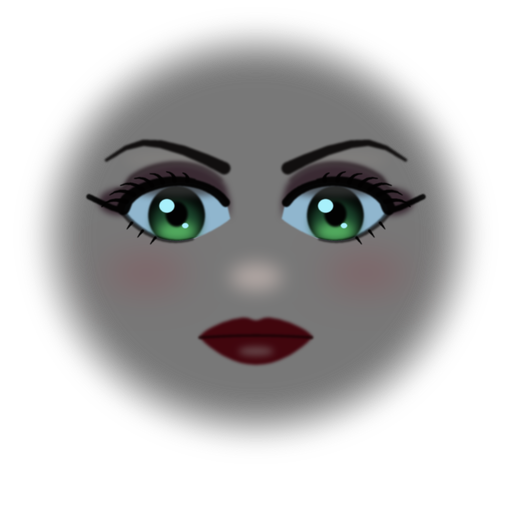
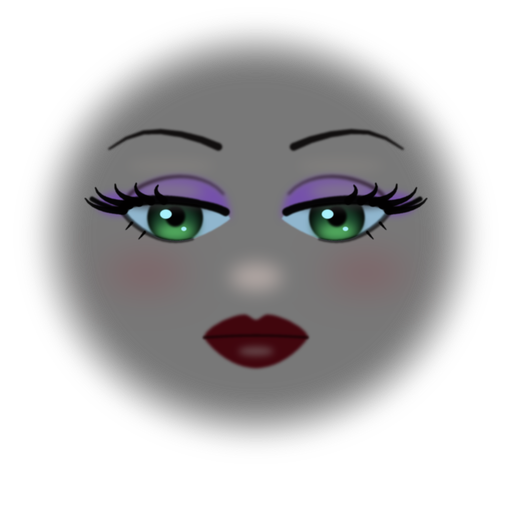
feat(siren): the 1940s pin-up face — heavy half-closed lids, long lashes, high brows, a pout
Owner: "more resemble Jessica Rabbit ... the eyelids are really big and long
lashes, eyes are not so wide open though eyes are big". The archetype, not
the character: the lid edge drops to 40% of the eye's height (LID_OPEN), a big
lavender-pink lid with a crease above it, five long lashes swept out from the
outer half, thin high arched brows, a fuller pouty cupid's bow.

diff --git a/src/lab/sdf-zombie/character-registry.ts b/src/lab/sdf-zombie/character-registry.ts
@@ -489,7 +489,7 @@ export const CHARACTERS: Readonly<Record<string, CharacterEntry>> = {
     // mean MEASURED off the PNG (make-siren-face.py prints it): the game uses
     // it as is, and bakedFace's fallback of 1 would darken her face by half
     // (the sheet's base grey is dark on purpose: make-siren-face.py).
-    face: { ...bakedFace('siren-face.png'), mean: 0.433815 },
+    face: { ...bakedFace('siren-face.png'), mean: 0.441372 },
     profile: motionProfileFor('siren'),
   },
 

diff --git a/scripts/make-siren-face.py b/scripts/make-siren-face.py
@@ -96,8 +96,9 @@ PUPIL = (0.02, 0.02, 0.02)
 CATCH = (1.40, 2.00, 2.10)     # the catchlight: clamps to near-white
 INK = (0.02, 0.015, 0.015)     # liner and lashes
 BROW = (0.07, 0.05, 0.05)      # cool near-black brown
-CREASE = (0.34, 0.24, 0.28)    # lid crease: a firm dark fold line
-LID = (0.44, 0.30, 0.38)       # smoky plum on the lid (owner: a bigger, darker lid)
+CREASE = (0.40, 0.26, 0.40)    # the lid's crease: a firm plum line round the top of the big lid
+LID = (0.98, 0.66, 1.45)       # lavender-pink shadow over the whole heavy lid (the 1940s pin-up's)
+LID_ROUND = (1.10, 1.08, 1.08) # a soft highlight across the lid's middle: the lid reads convex, a fold over the eye
 BROW_BONE = (1.10, 1.08, 1.06)  # a lift under the brow, so the lid reads set back
 BLUSH = (1.08, 0.78, 0.82)     # rose flush
 LIP = (0.52, 0.00, 0.07)       # red lipstick (owner, 2026-10-23): crimson; warmer values rendered salmon on her skin
@@ -110,16 +111,22 @@ LIP_LINE = (0.22, 0.02, 0.04)  # the line where the lips meet
 EYE_IN, EYE_OUT = 9.0, 46.0
 EYE_Y = -29.0          # eye centre line at the inner corner, rel cranium centre
 EYE_LIFT = 3.0         # outer corner this much higher
-EYE_HALF_H = 14.5      # upper lid height above the centre line (13: "too tight")
+EYE_HALF_H = 14.5      # the eye's full height above the centre line: the top of the big lid
+# HEAVY LIDS (owner, 2026-10-24: "the eyelids are really big and long lashes,
+# eyes are not so wide open though eyes are big"; the 1940s cartoon pin-up):
+# the upper lid's EDGE drops to this share of EYE_HALF_H, so the lid covers
+# the top ~40% of the iris and the eye looks half-closed, knowing. Everything
+# between the lid edge and the eye's full top is LID, painted lavender-pink.
+LID_OPEN = 0.40
 EYE_LOW = 0.78         # the lower lid's depth, as a share of EYE_HALF_H
-IRIS_X, IRIS_Y, IRIS_RX, IRIS_RY = 27.5, -27.5, 9.8, 13.0
-PUPIL_RX, PUPIL_RY = 3.8, 5.6
+IRIS_X, IRIS_Y, IRIS_RX, IRIS_RY = 28.0, -28.5, 9.6, 11.5
+PUPIL_RX, PUPIL_RY = 3.4, 4.6
 # The mouth line and lip peaks are siren.blob's lip prims, PROBED (where
 # each prim lies closest under the skin): upper peak -78, lower -89.5, the
 # line between at -81.5 mm (the owner's "closer to the eyes" pass moved the
 # mouth up 4.8 mm). An earlier sheet put the line 2.3 mm under its lips.
 MOUTH_Y = -81.5
-MOUTH_HALF_W = 19.5
+MOUTH_HALF_W = 18.0
 
 
 def mm(x: float, y: float) -> tuple[float, float]:
@@ -170,10 +177,20 @@ def almond_edge(t: float, upper: bool, grow: float = 0.0) -> tuple[float, float]
     x = EYE_IN + (EYE_OUT - EYE_IN) * t
     yc = EYE_Y + EYE_LIFT * t
     if upper:
-        h = EYE_HALF_H * math.sin(math.pi * t ** 0.80) ** 0.55 + grow
+        # The LID EDGE: low and only gently curved (a drowsy lid is nearly
+        # straight across), highest a little past the middle.
+        h = LID_OPEN * EYE_HALF_H * math.sin(math.pi * t ** 0.95) ** 0.45 + grow
         return x, yc + h
     h = EYE_LOW * EYE_HALF_H * math.sin(math.pi * t ** 1.1) ** 0.8 + grow
     return x, yc - h
+
+
+def orbit_top(t: float, grow: float = 0.0) -> tuple[float, float]:
+    """The top of the eye's full shape — where the big lid ends at its
+    crease — t 0 inner -> 1 outer."""
+    x = EYE_IN + (EYE_OUT - EYE_IN) * t
+    yc = EYE_Y + EYE_LIFT * t
+    return x, yc + EYE_HALF_H * math.sin(math.pi * t ** 0.80) ** 0.55 + grow
 
 
 def both(pts):
@@ -193,34 +210,39 @@ def almond_mask(grow: float = 0.0) -> Image.Image:
 # Layers: each returns (mask L, multiplier rgb, opacity).
 
 def lid_layers():
-    """A PROMINENT upper lid (owner, 2026-10-23: "upper eyelid more
-    prominent"): smoky mauve from the lash line up to a firm dark crease
-    ~5 mm above it, darkest at the outer corner, with a faint lift under
-    the brow so the lid reads as a fold set back under the brow bone (the
-    carved socket in siren.blob does the rest)."""
+    """THE HEAVY LID: everything from the dropped lid edge up to the eye's
+    full top plus ~3 mm, lavender-pink, deepest at the lash line and swept
+    out past the outer corner; a soft highlight across its middle so it
+    reads as a convex fold over the eye; a firm plum crease round its top;
+    a faint lift under the brow."""
     lid, d = new_mask()
-    n = 24
+    n = 30
     for s_ in (1.0, -1.0):
-        # 8 mm deep over the lid (5 mm read as a thin stripe), swept up and
-        # out past the outer corner into a smoky wing.
-        band = [almond_edge(i / n, True, 0.0) for i in range(n + 1)] + \
-               [almond_edge(1 - i / n, True, 8.0 + 2.0 * (1 - i / n)) for i in range(n + 1)]
+        band = [almond_edge(i / n, True, -0.5) for i in range(n + 1)] + \
+               [orbit_top(1 - i / n, 3.0) for i in range(n + 1)]
         d.polygon([mm(s_ * x, y) for x, y in band], fill=255)
         ox, oy = almond_edge(1.0, True, 0.0)
-        ellipse(d, s_ * (ox + 1.0), oy + 4.5, 7.5, 6.0)   # deeper at the outer corner
-    lid = blur(lid, 1.0)
+        ellipse(d, s_ * (ox + 2.0), oy + 3.5, 7.0, 5.0)   # swept out past the corner
+    lid = blur(lid, 1.2)
+    rnd, dr = new_mask()
+    for s_ in (1.0, -1.0):
+        mx, my = almond_edge(0.55, True, 0.0)
+        tx, ty = orbit_top(0.55, 0.0)
+        ellipse(dr, s_ * mx, (my + ty) / 2 + 1.0, 11.0, 3.5)
+    rnd = blur(rnd, 2.0)
     crease, dc = new_mask()
-    pts = [almond_edge(0.08 + 0.92 * t / 12, True, 8.0 + 2.0 * t / 12) for t in range(13)]
+    pts = [orbit_top(0.06 + 0.94 * t / 14, 3.0) for t in range(15)]
     ox, oy = pts[-1]
-    pts.append((ox + 2.5, oy - 0.6))
+    pts.append((ox + 3.0, oy - 1.5))
     for side in both(pts):
-        stroke(dc, side, 0.6, 1.3)
-    crease = blur(crease, 0.6)
+        stroke(dc, side, 0.6, 1.4)
+    crease = blur(crease, 0.5)
     bone, db = new_mask()
     for s_ in (1.0, -1.0):
-        ellipse(db, s_ * 31.0, EYE_Y + EYE_HALF_H + 12.0, 15.0, 3.0)
+        tx, ty = orbit_top(0.55, 0.0)
+        ellipse(db, s_ * tx, ty + 8.0, 15.0, 3.0)
     bone = blur(bone, 2.0)
-    return [(bone, BROW_BONE, 0.8), (lid, LID, 0.92), (crease, CREASE, 0.80)]
+    return [(bone, BROW_BONE, 0.8), (lid, LID, 0.95), (rnd, LID_ROUND, 0.7), (crease, CREASE, 0.85)]
 
 
 def blush_layer():
@@ -231,15 +253,17 @@ def blush_layer():
 
 
 def brow_layer():
-    """Arched brows SLANTING IN (owner, 2026-10-23): the inner head set low
-    toward the nose and rising steeply to a high arch two thirds out, then
-    falling off: a sultry, knowing brow rather than the first pass's flat
-    one."""
+    """Thin, high, gently arched brows (the 1940s pin-up's, owner
+    2026-10-24): the peak two thirds out, both ends falling away."""
     m, d = new_mask()
     # Above the big eye (its lid tops out at rel ~-15 mm).
-    path = [(11.0, -6.5), (17.0, -2.8), (25.0, 1.4), (33.0, 4.2), (39.0, 4.8), (45.0, 2.6), (52.0, -3.0)]
+    # THIN, HIGH ARCHES (the pin-up's): set well above the big lid, rising
+    # from a low inner head to a peak two thirds out, falling off sharply.
+    # Inner heads NOT low: a first pass dropped them to -4 mm and the
+    # brows rendered as an angry V. A gentle high arch reads knowing.
+    path = [(13.0, 3.0), (19.0, 6.2), (26.0, 8.6), (33.0, 9.8), (39.0, 9.4), (45.0, 6.8), (51.0, 2.0)]
     for side in both(path):
-        stroke(d, side, 4.2, 1.0)
+        stroke(d, side, 2.6, 0.7)
     return [(blur(m, 0.35), BROW, 0.92)]
 
 
@@ -252,7 +276,8 @@ def eye_layers():
     out = [(blur(alm, 0.25), SCLERA, 1.0)]
     sh, d = new_mask()
     for s_ in (1.0, -1.0):
-        ellipse(d, s_ * IRIS_X, EYE_Y + EYE_HALF_H + 1.5, 20.0, 6.0)
+        lx, ly = almond_edge(0.5, True, 0.0)
+        ellipse(d, s_ * IRIS_X, ly + 1.0, 20.0, 4.0)
     out.append((clip(blur(sh, 1.2)), SCLERA_SHADE, 0.9))
     for colour, rx, ry, dy, b in ((LIMBAL, IRIS_RX, IRIS_RY, 0.0, 0.3),
                                   (IRIS_DARK, IRIS_RX - 0.8, IRIS_RY - 0.9, 0.0, 0.4),
@@ -268,8 +293,8 @@ def eye_layers():
     for s_ in (1.0, -1.0):
         # One key light: a big catchlight upper-left on both eyes, a small
         # one lower-right.
-        ellipse(d, s_ * IRIS_X - 3.4, IRIS_Y + 4.2, 2.6, 3.0)
-        ellipse(d, s_ * IRIS_X + 3.0, IRIS_Y - 4.6, 1.1, 1.1)
+        ellipse(d, s_ * IRIS_X - 3.2, IRIS_Y + 1.6, 2.0, 2.0)
+        ellipse(d, s_ * IRIS_X + 3.0, IRIS_Y - 5.0, 0.9, 0.9)
     out.append((blur(c, 0.15), CATCH, 1.0))
     return out
 
@@ -284,11 +309,11 @@ def liner_layer():
     ox, oy = upper[-1]
     # HEAVIER (owner, twice): 3 mm along the lid, swelling to 4.5 mm over
     # the outer third, and a long thick wing 12 mm out and up.
-    upper += [(ox + 4.0, oy + 1.6), (ox + 8.0, oy + 4.0), (ox + 12.0, oy + 6.5)]
+    upper += [(ox + 4.0, oy + 1.4), (ox + 8.0, oy + 3.4), (ox + 11.0, oy + 5.5)]
     for side in both(upper):
-        stroke(d, side, 3.0, 1.8)
-    for side in both([almond_edge(1 - i / n * 0.70, True, 1.6) for i in range(n)]):
-        stroke(d, side, 4.5, 1.4)
+        stroke(d, side, 2.8, 1.6)
+    for side in both([almond_edge(1 - i / n * 0.75, True, 1.4) for i in range(n)]):
+        stroke(d, side, 3.6, 1.2)
     lower, dl = new_mask()
     for side in both([almond_edge(0.35 + 0.65 * i / 12, False, 0.3) for i in range(13)]):
         stroke(dl, side, 0.8, 1.8)
@@ -296,23 +321,24 @@ def liner_layer():
 
 
 def lash_layer():
-    """LARGE lashes (owner): seven thick clumps along the outer two thirds of
-    the upper lid, 4-9 mm long, curling up and out, longest at the corner;
-    three short ones under the outer corner."""
+    """LONG LASHES at the heavy lid's OUTER half (the pin-up's): five thick,
+    tapered sweeps, 9-16 mm, going OUT more than up and curling up a little
+    at the tips, the longest past the outer corner. (A first pass stood
+    eight lashes up across the lid like a comb and hid the lid colour.)
+    Two short ones under the outer corner."""
     m, d = new_mask()
     for s_ in (1.0, -1.0):
-        for t, length, ang in ((0.40, 4.0, 95), (0.52, 5.0, 85), (0.63, 6.0, 72), (0.73, 7.0, 58),
-                               (0.82, 8.0, 44), (0.90, 8.5, 30), (0.97, 9.0, 16)):
-            x, y = almond_edge(t, True, 1.2)
+        for t, length, ang in ((0.62, 9.0, 52), (0.74, 11.5, 38), (0.85, 13.5, 26), (0.94, 15.5, 14), (1.00, 15.0, 2)):
+            x, y = almond_edge(t, True, 0.6)
             pts = []
-            for j in range(6):
-                f = j / 5
-                a = math.radians(ang) - 0.55 * f * f
-                pts.append((x + math.cos(a) * length * f, y + math.sin(a) * length * f))
-            stroke(d, [(s_ * px_, py_) for px_, py_ in pts], 1.6, 0.25)
-        for t in (0.70, 0.82, 0.92):
+            for j in range(8):
+                f = j / 7
+                a = math.radians(ang) + 0.45 * f * f    # curl up at the tips
+                pts.append((x + math.cos(a) * length * f, y + math.sin(a) * length * f * 0.80))
+            stroke(d, [(s_ * px_, py_) for px_, py_ in pts], 2.8, 0.4)
+        for t in (0.80, 0.92):
             x, y = almond_edge(t, False, 0.6)
-            pts = [(x, y), (x + 1.0, y - 1.6), (x + 1.8, y - 3.0)]
+            pts = [(x, y), (x + 1.2, y - 1.8), (x + 2.2, y - 3.2)]
             stroke(d, [(s_ * px_, py_) for px_, py_ in pts], 0.9, 0.2)
     return [(blur(m, 0.15), INK, 0.97)]
 
@@ -335,12 +361,13 @@ def lip_layers():
     for i in range(41):
         x = -w + 2 * w * i / 40
         t = abs(x) / w
-        h = 9.0 * math.sin(math.pi * (1 - t) / 2) ** 0.70 - 1.8 * math.exp(-(x / (0.13 * w)) ** 2)
+        # A pronounced cupid's bow: two peaks and a deep dip (the pout).
+        h = 10.5 * math.sin(math.pi * (1 - t) / 2) ** 0.65 - 3.0 * math.exp(-(x / (0.14 * w)) ** 2)
         pts.append(mm(x, MOUTH_Y + max(0.0, h)))
     for i in range(41):
         x = w - 2 * w * i / 40
         t = abs(x) / w
-        h = 12.5 * math.sin(math.pi * (1 - t) / 2) ** 0.80
+        h = 14.0 * math.sin(math.pi * (1 - t) / 2) ** 0.75
         pts.append(mm(x, MOUTH_Y - h))
     d.polygon(pts, fill=255)
     line, dl = new_mask()

diff --git a/docs/dev-notes/2026-10-23-siren/NOTES.md b/docs/dev-notes/2026-10-23-siren/NOTES.md
@@ -83,3 +83,14 @@ at 0.16 of the thigh, the pelvis is a downward-tapering cone (r 0.128 -> 0.066) 
 set back, with a soft lower-belly swell: waist 0.108 at y 1.15, hips 0.238 at 0.95, belly ~2.5 cm proud.
 
 ![torso](contact-7-torso.png)
+
+## Eighth pass: the 1940s pin-up face (2026-10-24, owner: "more resemble Jessica Rabbit ... the eyelids are really big and long lashes, eyes are not so wide open though eyes are big")
+
+The archetype, not the character (a Disney/Amblin IP): the upper lid's EDGE drops to 40% of the eye's height
+(`LID_OPEN`), so the lid covers the top ~40% of a big iris and the eye is half-closed; above it to the eye's full top
+is a lavender-pink lid with a soft highlight across its middle and a plum crease; five long lashes sweep OUT from the
+outer half (a row standing up across the lid read as a comb); thin high brows (inner ends dropped low read as an
+angry V); a fuller, pouty cupid's-bow mouth. Also a navel (a groove pit) and a belly mound in front of recessed thigh
+tops.
+
+![pin-up face](contact-8-face.png)
